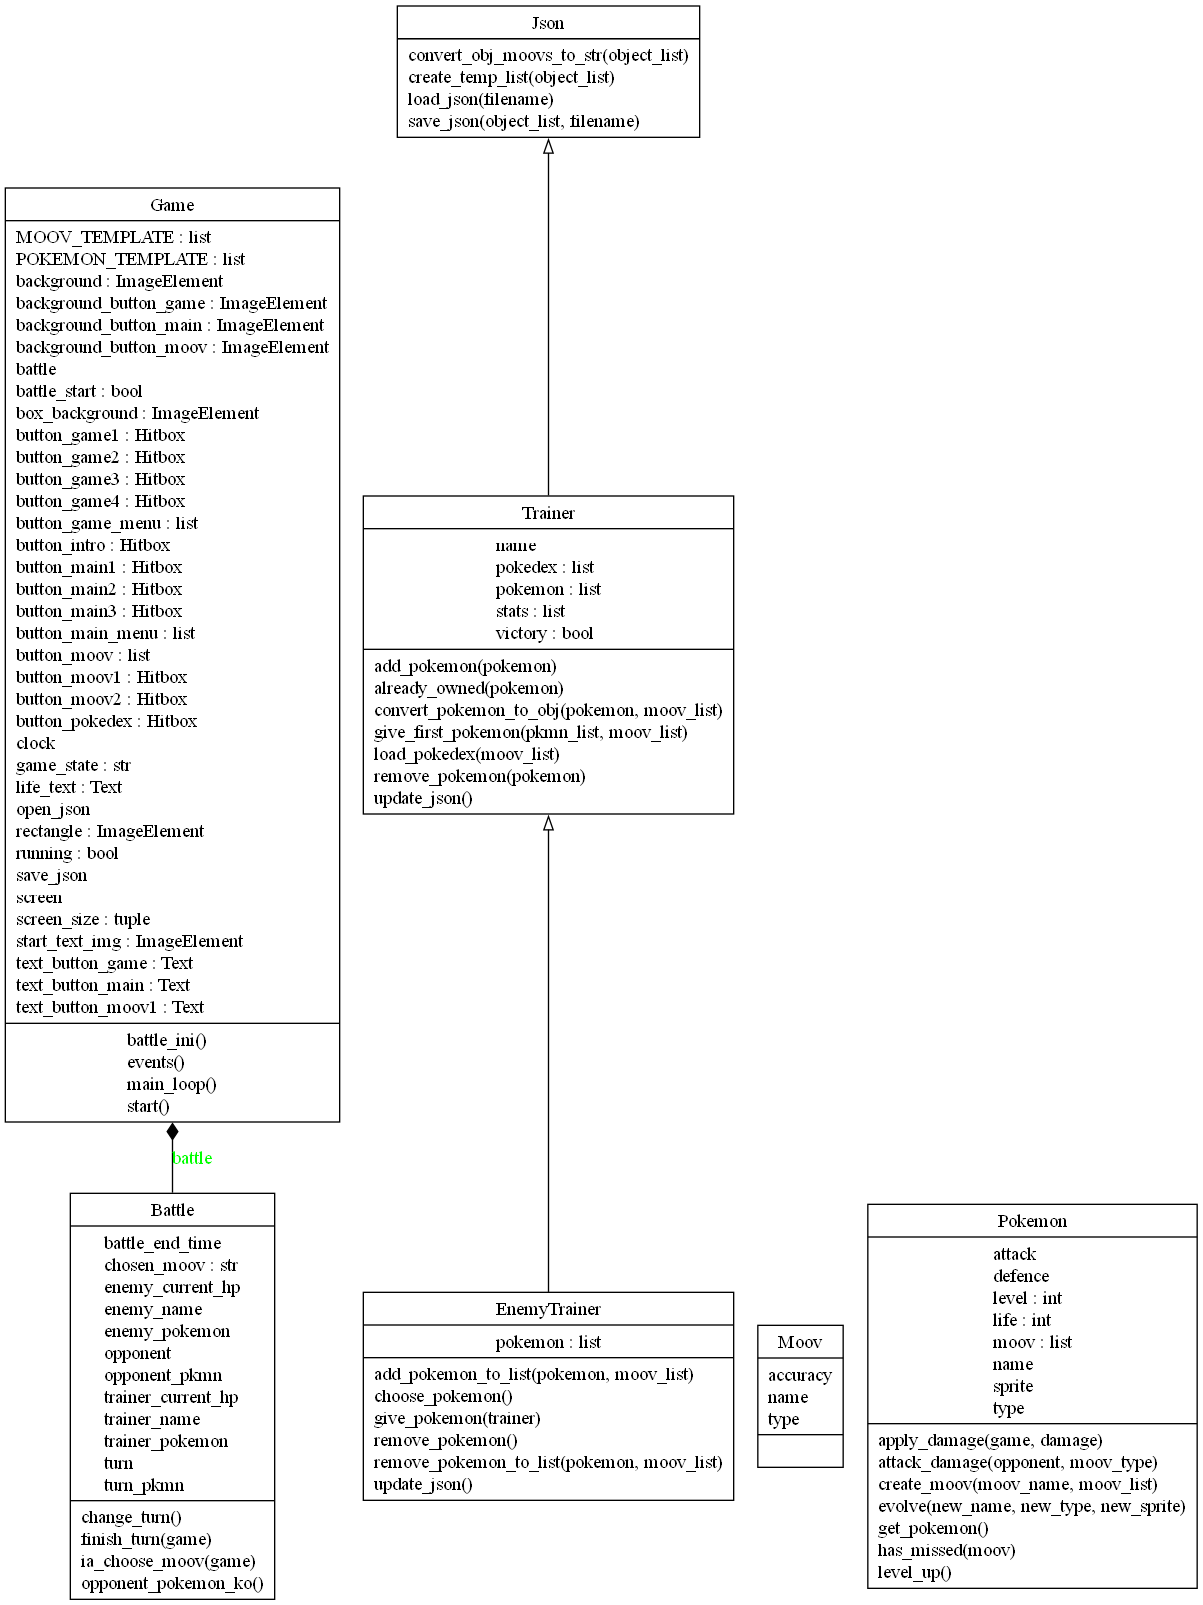
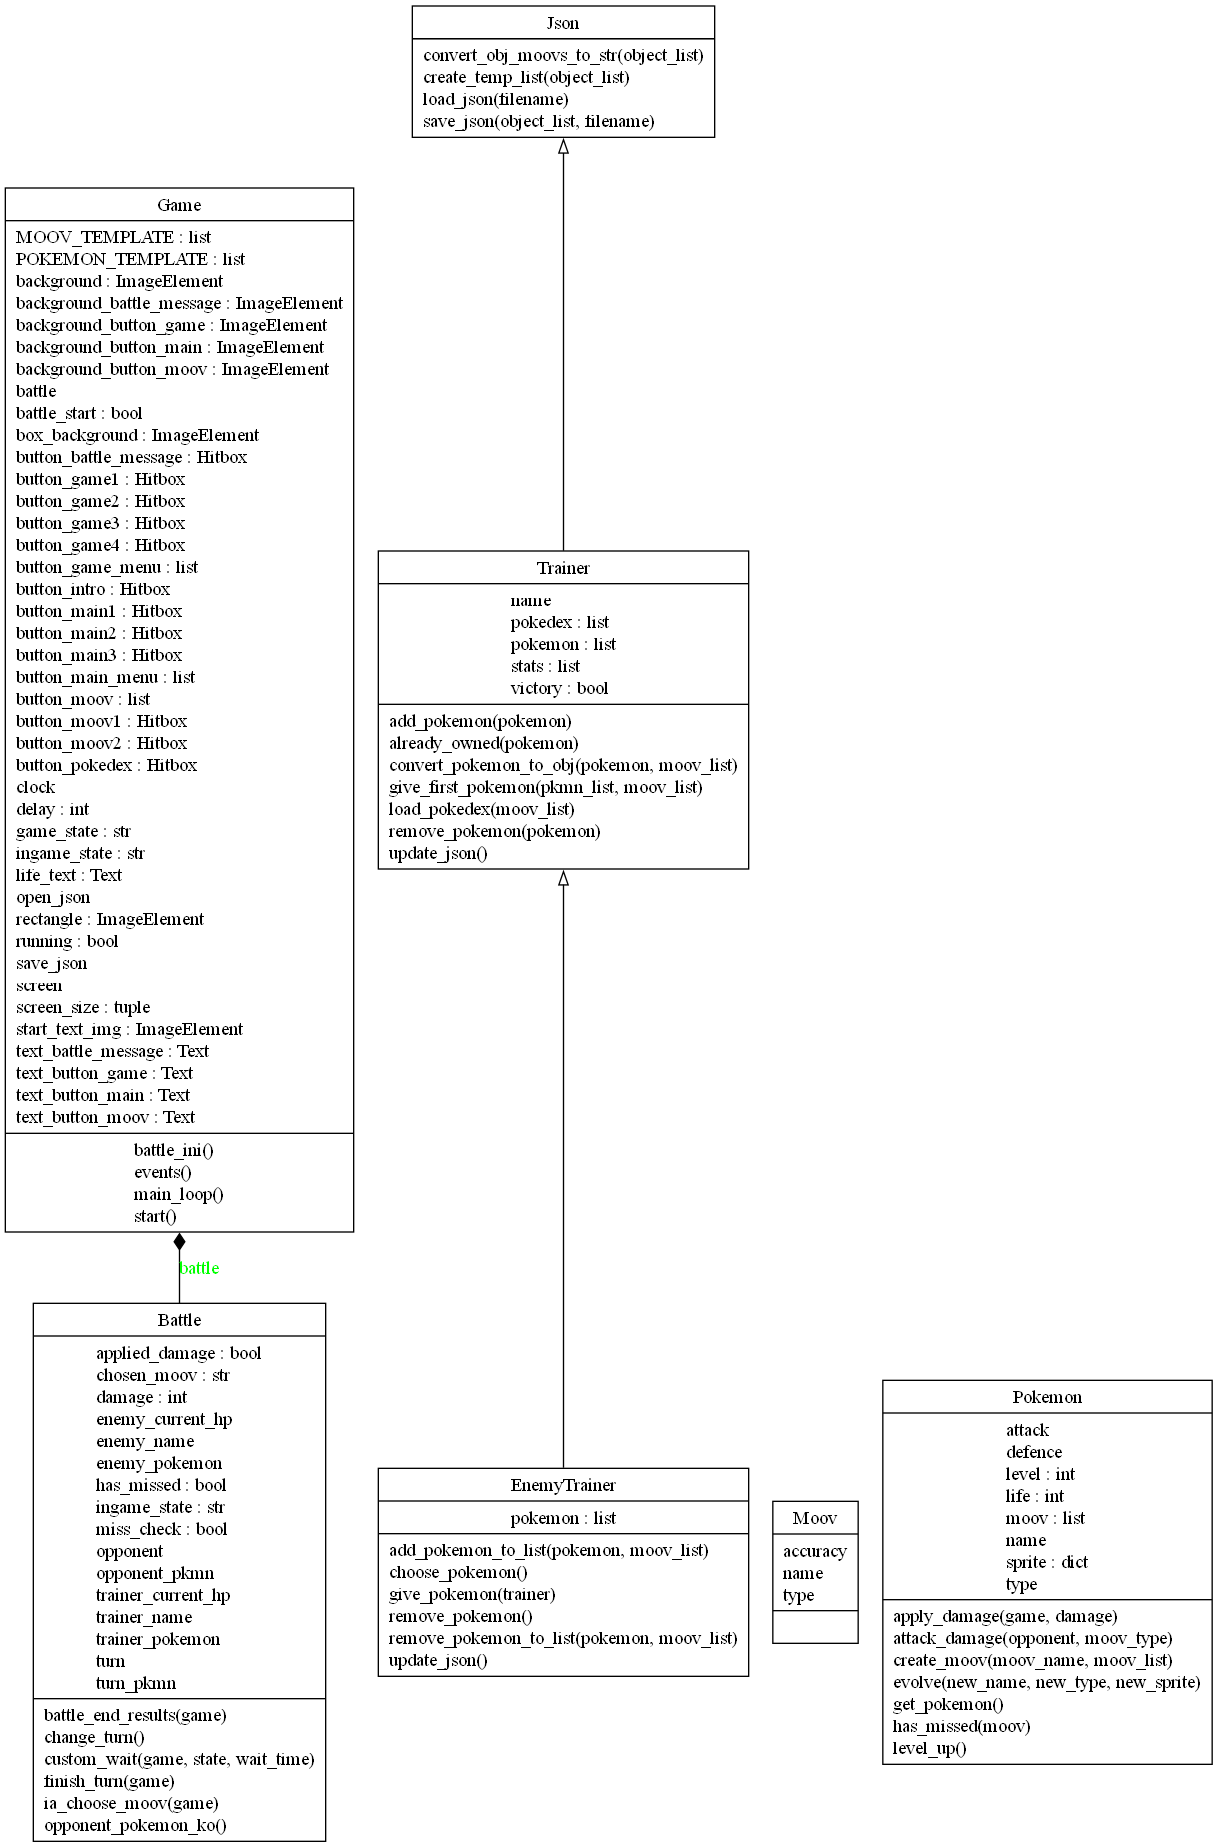
fix: Fix messages not displaying after ko

diff --git a/model/battle.py b/model/battle.py
@@ -1,10 +1,6 @@
 from pygame import time
-# from utils import Button
-
-
-
-#Battle class for managing Pokémon battles
 class Battle:
+    """Battle class for managing Pokémon battles"""
     def __init__(self, trainer, enemy):
         self.trainer_name = trainer.name
         self.trainer_pokemon = trainer.pokedex[0]
@@ -25,18 +21,19 @@ class Battle:
         self.applied_damage = False
         self.miss_check = False
         self.has_missed = False
+
         
     def finish_turn(self, game):  
-        if self.opponent_pokemon_ko():
-            self.battle_end_results(game)
-            
         self.chosen_moov = ''
         self.damage = 0
         self.applied_damage = False
         self.miss_check = False
 
-        self.custom_wait(game, "attacking", 1500)
-        self.change_turn()
+        if self.opponent_pokemon_ko():
+            self.custom_wait(game, "pokemon_ko", 2000)
+        else:
+            self.custom_wait(game, "attacking", 1500)
+            self.change_turn()
 
 
     def change_turn(self):
@@ -63,28 +60,34 @@ class Battle:
             return self.turn_pkmn.moov[0]
     
 
-    # To check if Pokemon is alive or not
     def opponent_pokemon_ko(self):
+        """To check if Pokemon is alive or not"""
         if self.enemy_current_hp <= 0 or self.trainer_current_hp <= 0:
             return True
         return False
     
-    def battle_end_results(self, game):
-        print("Battle Finished!")
+    def end_results(self, game):
         if self.trainer_current_hp <= 0:
-            print("You Lose!!")
+            self.has_won = False
+
+            game.button_battle_message.draw(game.screen)
+            game.background_battle_message.draw(game.screen, hitbox=game.button_battle_message)
+            game.text_battle_message.draw(game.screen, f"Too bad, {self.trainer_name}'s {self.trainer_pokemon} had been defeated by {self.enemy_name}'s {self.enemy_pokemon}!!" ,hitbox=game.button_battle_message)
+    
             game.enemy.remove_pokemon()
         else:
-            print("You Win!!")
-            gave_pokemon = game.enemy.give_pokemon(game.trainer)
-            if gave_pokemon:
-                print(f"{self.enemy_name} gave you a {self.enemy_pokemon.name}!! So cool!")
-            else:
-                print(f"{self.enemy_name} gave you a {self.enemy_pokemon.name}!! Unfortunately, you already had one...")
-                
-            game.battle_start = False
+            self.has_won = True
 
-            game.game_state = "battle_end"
+            game.button_battle_message.draw(game.screen)
+            game.background_battle_message.draw(game.screen, hitbox=game.button_battle_message)
+            game.text_battle_message.draw(game.screen, f"Good job, {self.trainer_name}'s {self.trainer_pokemon} had defeated {self.enemy_name}'s {self.enemy_pokemon}!!" ,hitbox=game.button_battle_message)
+    
+            self.gave_pokemon = game.enemy.give_pokemon(game.trainer)
+
+        game.battle_start = False
+
+        game.delay = time.get_ticks() + 5000
+        game.game_state = "battle_end"
 
     def custom_wait(self, game, state, wait_time = 1000):
         if time.get_ticks() >= game.delay:

diff --git a/ui/ingame.py b/ui/ingame.py
@@ -29,6 +29,8 @@ def display_ingame(game):
             display_damage_text(game, game.battle.damage)
         case "turn_finish":
             game.battle.finish_turn(game)
+        case "pokemon_ko":
+            game.battle.end_results(game)
         case _:
             print("Error selecting an ingame state")
 
@@ -96,8 +98,15 @@ def display_enemy_choosing_move(game):
         game.ingame_state = "attacking"
         game.battle.chosen_moov = game.battle.ia_choose_moov(game)
 
-def display_battle_end(game):                
-    #TODO Summary of battle, level up and evolution + pokemon give?
+def display_battle_end(game):    
+    if game.battle.has_won:
+        if game.battle.gave_pokemon:
+            print(f"{game.battle.enemy_name} gave you a {game.battle.enemy_pokemon.name}!! So cool!")
+        else:
+            print(f"{game.battle.enemy_name} gave you a {game.battle.enemy_pokemon.name}!! Unfortunately, you already had one...")
+    else:
+        print("Nothing to show here")
+
     if time.get_ticks() >= game.delay:
         game.game_state = "game_menu"
 

diff --git a/model/pokemon.py b/model/pokemon.py
@@ -64,6 +64,10 @@ class Pokemon():
     def apply_damage(self, game, damage):
         if game.battle.opponent == game.battle.enemy_name:
             game.battle.enemy_current_hp -= damage
+            if game.battle.enemy_current_hp < 0:
+                game.battle.enemy_current_hp = 0
         else:
             game.battle.trainer_current_hp -= damage
+            if game.battle.trainer_current_hp < 0:
+                game.battle.trainer_current_hp = 0
         return True

diff --git a/model/GameClass.py b/model/GameClass.py
@@ -12,8 +12,6 @@ from ui.pokelist import display_pokelist
 
 import pygame
 
-
-
 class Game:
     def __init__(self):
         pygame.init()
